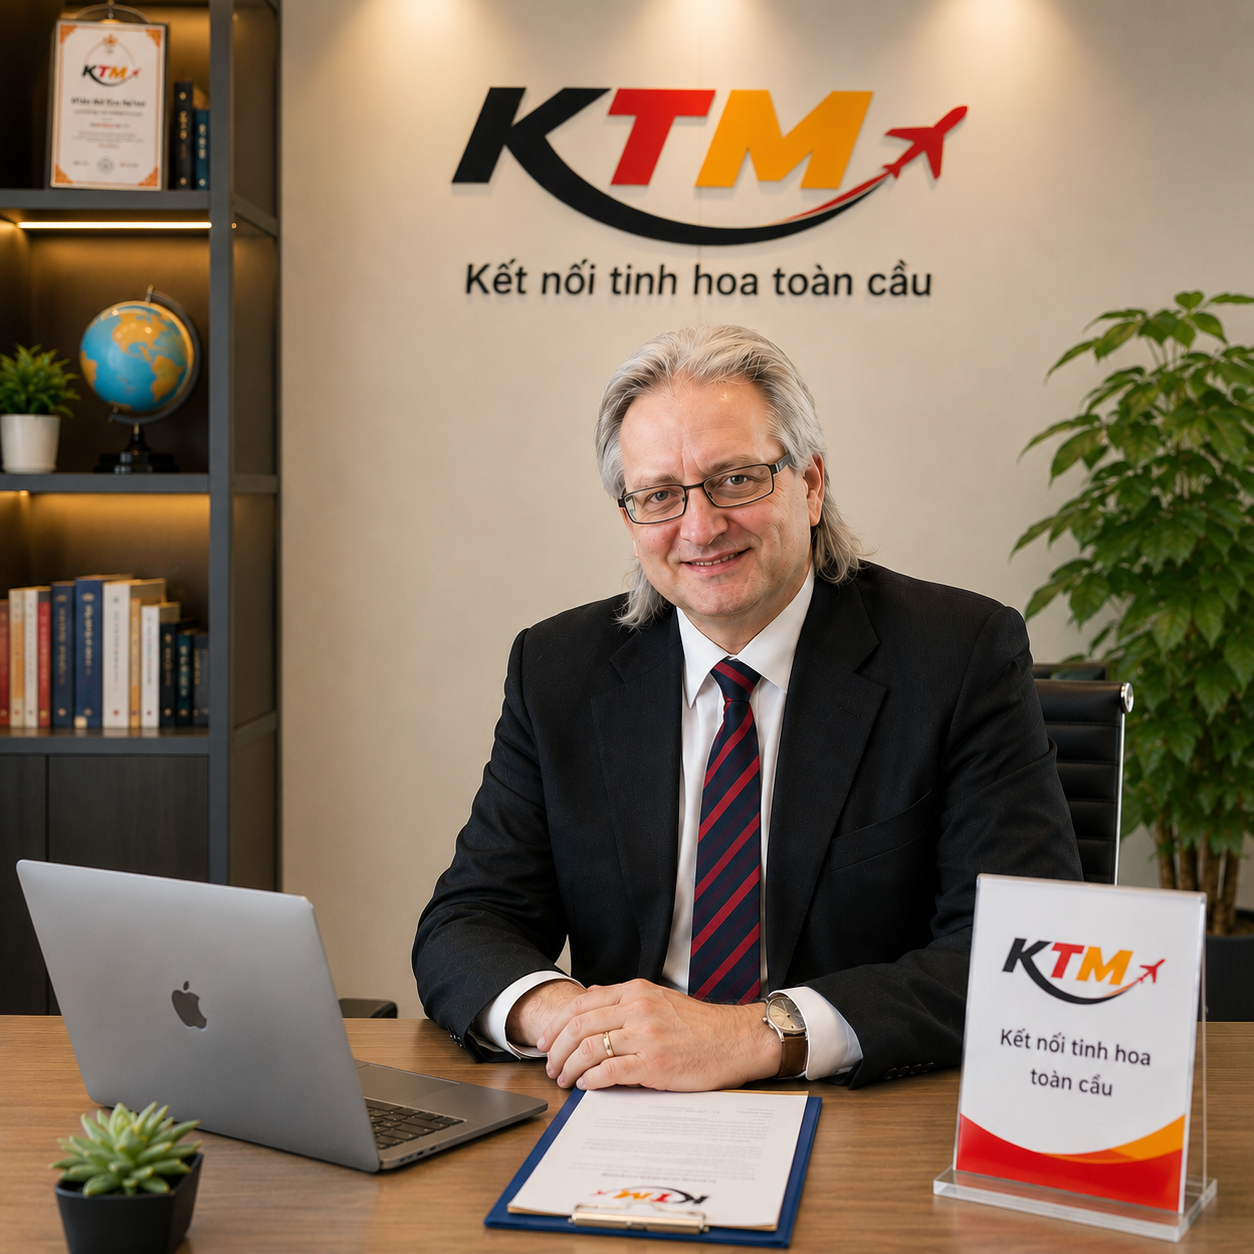
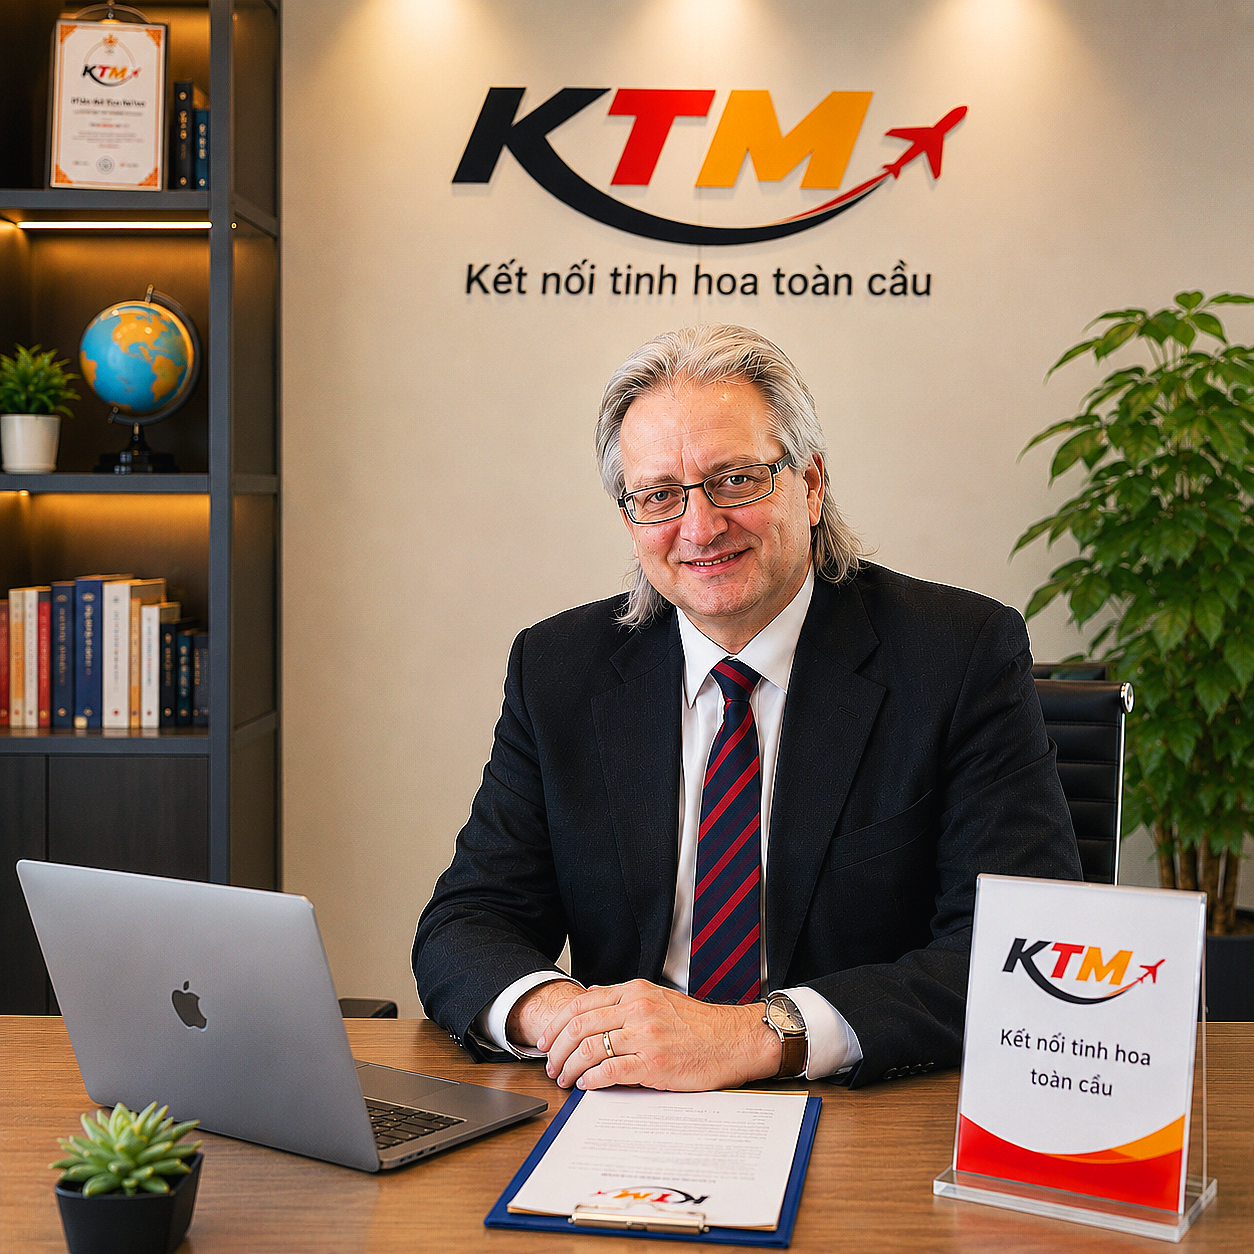
update Design Change

diff --git a/src/App.tsx b/src/App.tsx
@@ -439,7 +439,7 @@ export default function App() {
             <div className="lg:col-span-5 relative">
               <div className="relative mx-auto max-w-md overflow-hidden transition-transform duration-300 flex items-center justify-center aspect-[4/5]">
                 <img 
-                  src={ktmHeroBusinesswoman} 
+                  src="/vietnamese_girl_smiling_01.png"
                   alt="KTM Asian Businesswoman in Office with Logo" 
                   className="w-full h-full object-cover rounded-2xl"
                   referrerPolicy="no-referrer"
@@ -467,13 +467,13 @@ export default function App() {
               <div className="relative mx-auto max-w-lg space-y-6">
                 
                 {/* Dynamically renders photo representing Son Tran or Frank Deubler */}
-                <div className="aspect-[4/3] rounded-xl overflow-hidden bg-neutral-200 border border-neutral-150 relative">
+                <div className="aspect-[4/4] rounded-xl overflow-hidden bg-neutral-200 border border-neutral-150 relative">
                   {activeFounder === "son" ? (                    
                     <img 
                       key="son-img"
                       // src="https://images.unsplash.com/photo-1519085360753-af0119f7cbe7?auto=format&fit=crop&q=80&w=800&h=600"
                       /**test */
-                      src="/ktm_direktor.png "
+                      src="/ktm_direktor_02.png "
                       alt="Son Tran - KTM Gründer & Geschäftsführer"
                       className="h-full w-full object-cover transition-all duration-300"
                       referrerPolicy="no-referrer"
@@ -481,7 +481,7 @@ export default function App() {
                   ) : (
                     <img 
                       key="frank-img"
-                      src="https://images.unsplash.com/photo-1560250097-0b93528c311a?auto=format&fit=crop&q=80&w=800&h=600"
+                      src="/ktm_Frank_Deubler.png"
                       alt="Frank Deubler - KTM Generalbevollmächtigter"
                       className="h-full w-full object-cover transition-all duration-300"
                       referrerPolicy="no-referrer"

diff --git a/src/components/Kontaktformular.tsx b/src/components/Kontaktformular.tsx
@@ -134,7 +134,7 @@ export default function Kontaktformular({ isSection = false }) {
           
           <div className="hidden md:block">
             <img 
-              src="/vietnamese_girl_smiling_02.jpg" 
+              src="/vietnamese_girl_smiling_02.png" 
               alt="Vietnamese girl smiling friendly" 
               className="rounded-2xl shadow-xl object-cover w-full h-full aspect-[4/5]" 
               referrerPolicy="no-referrer"
